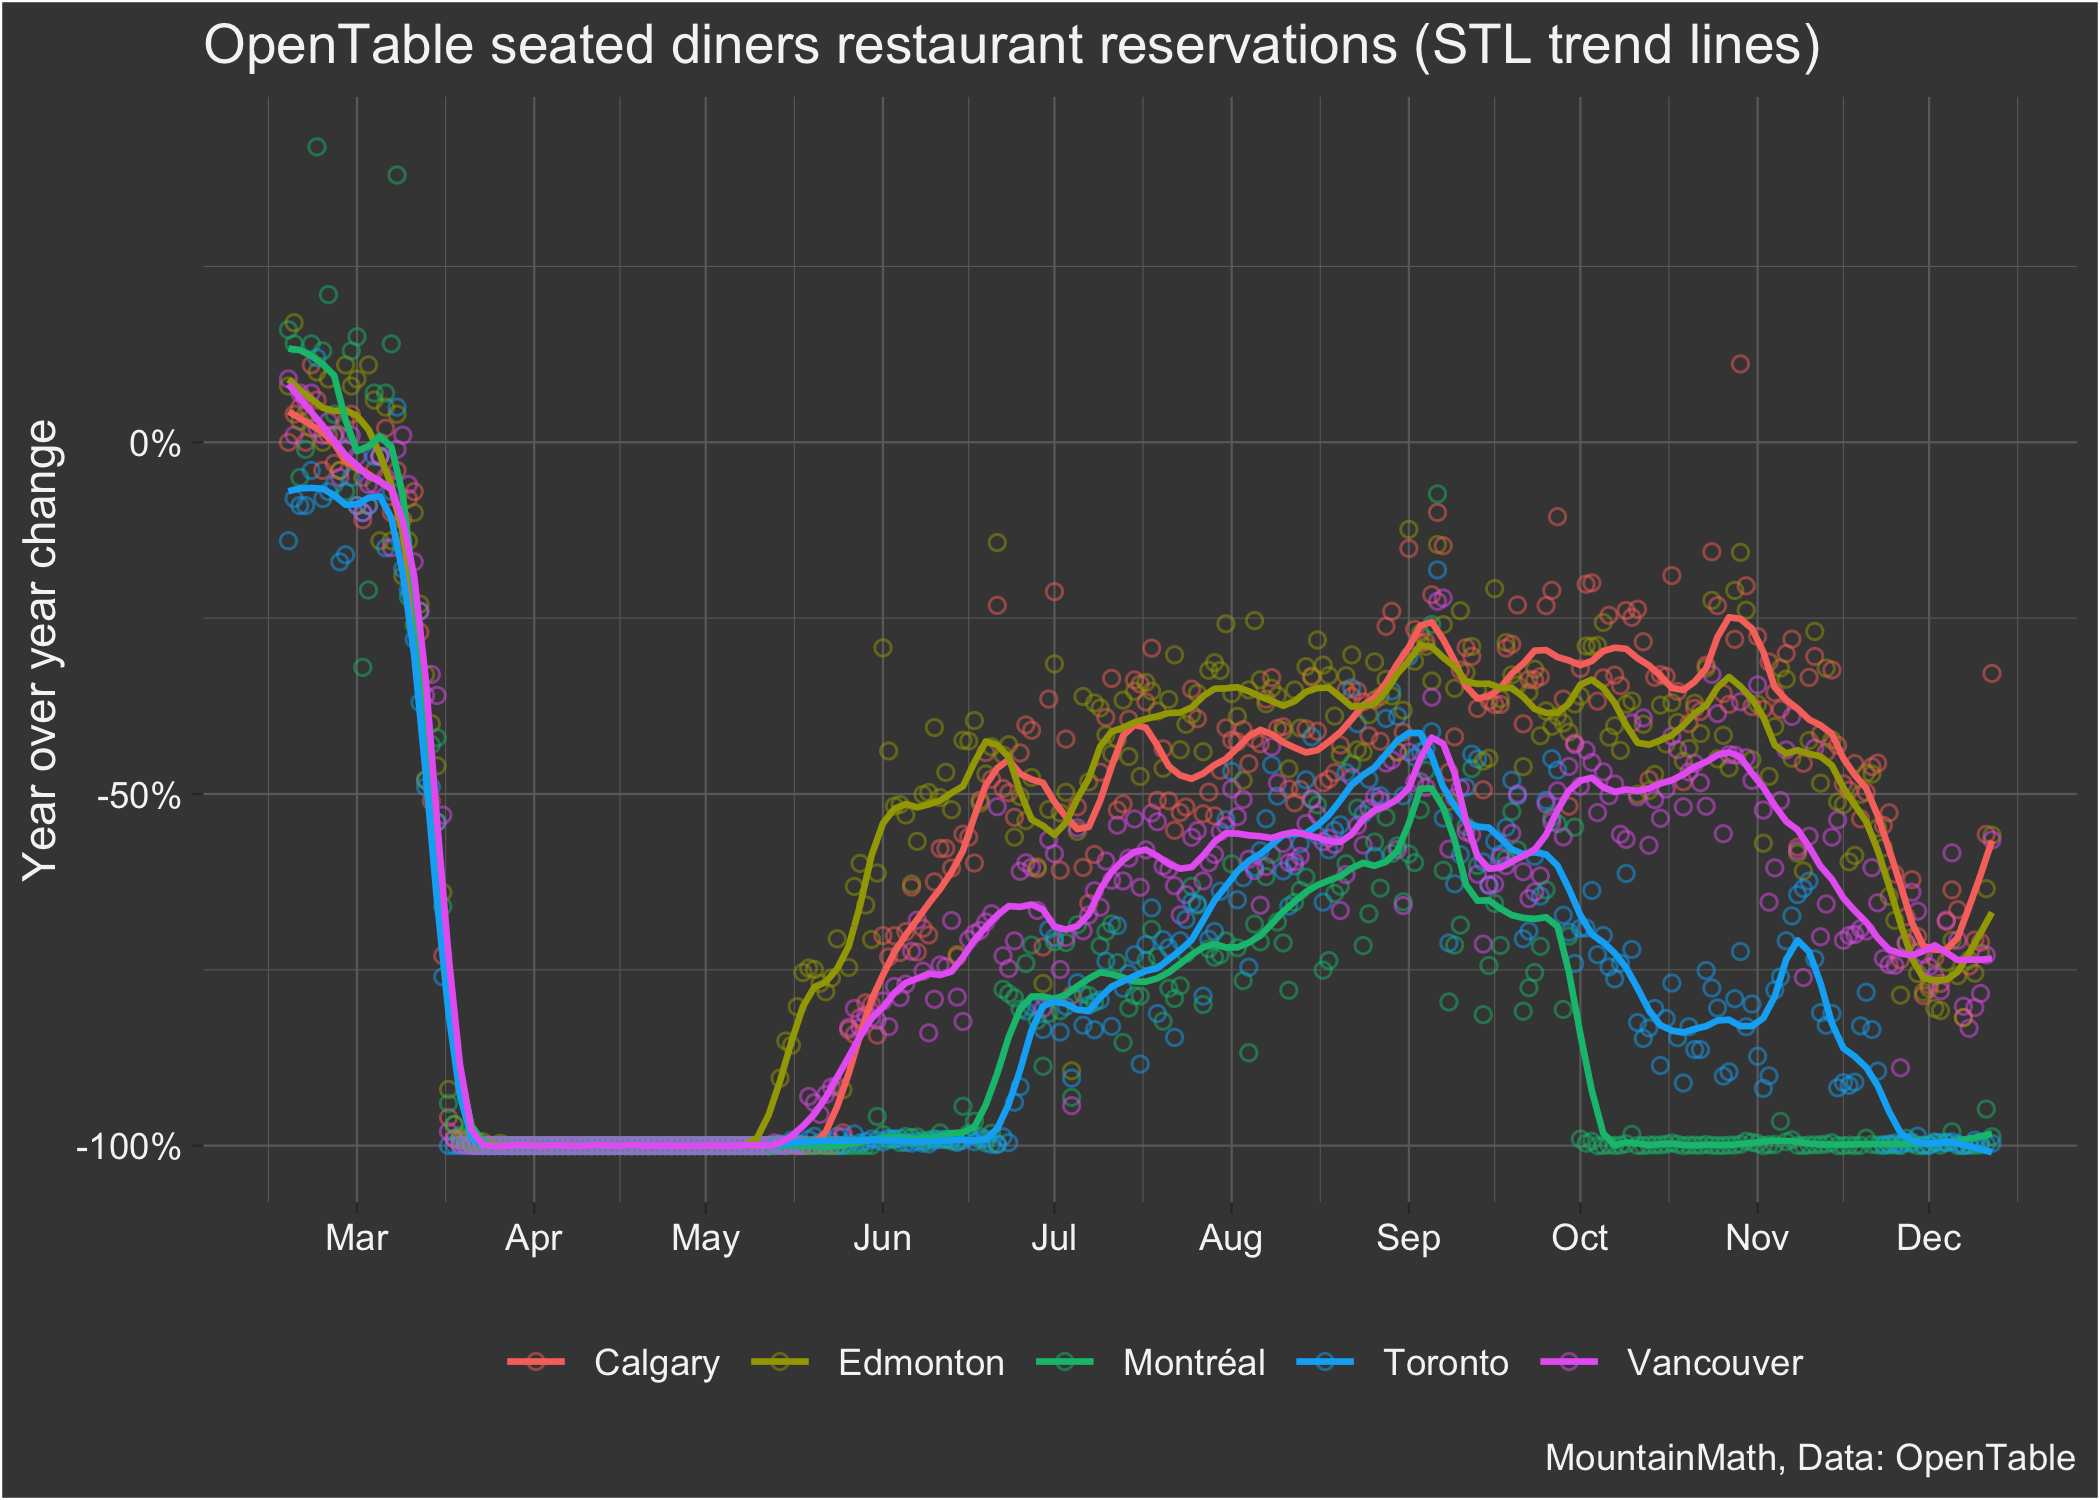
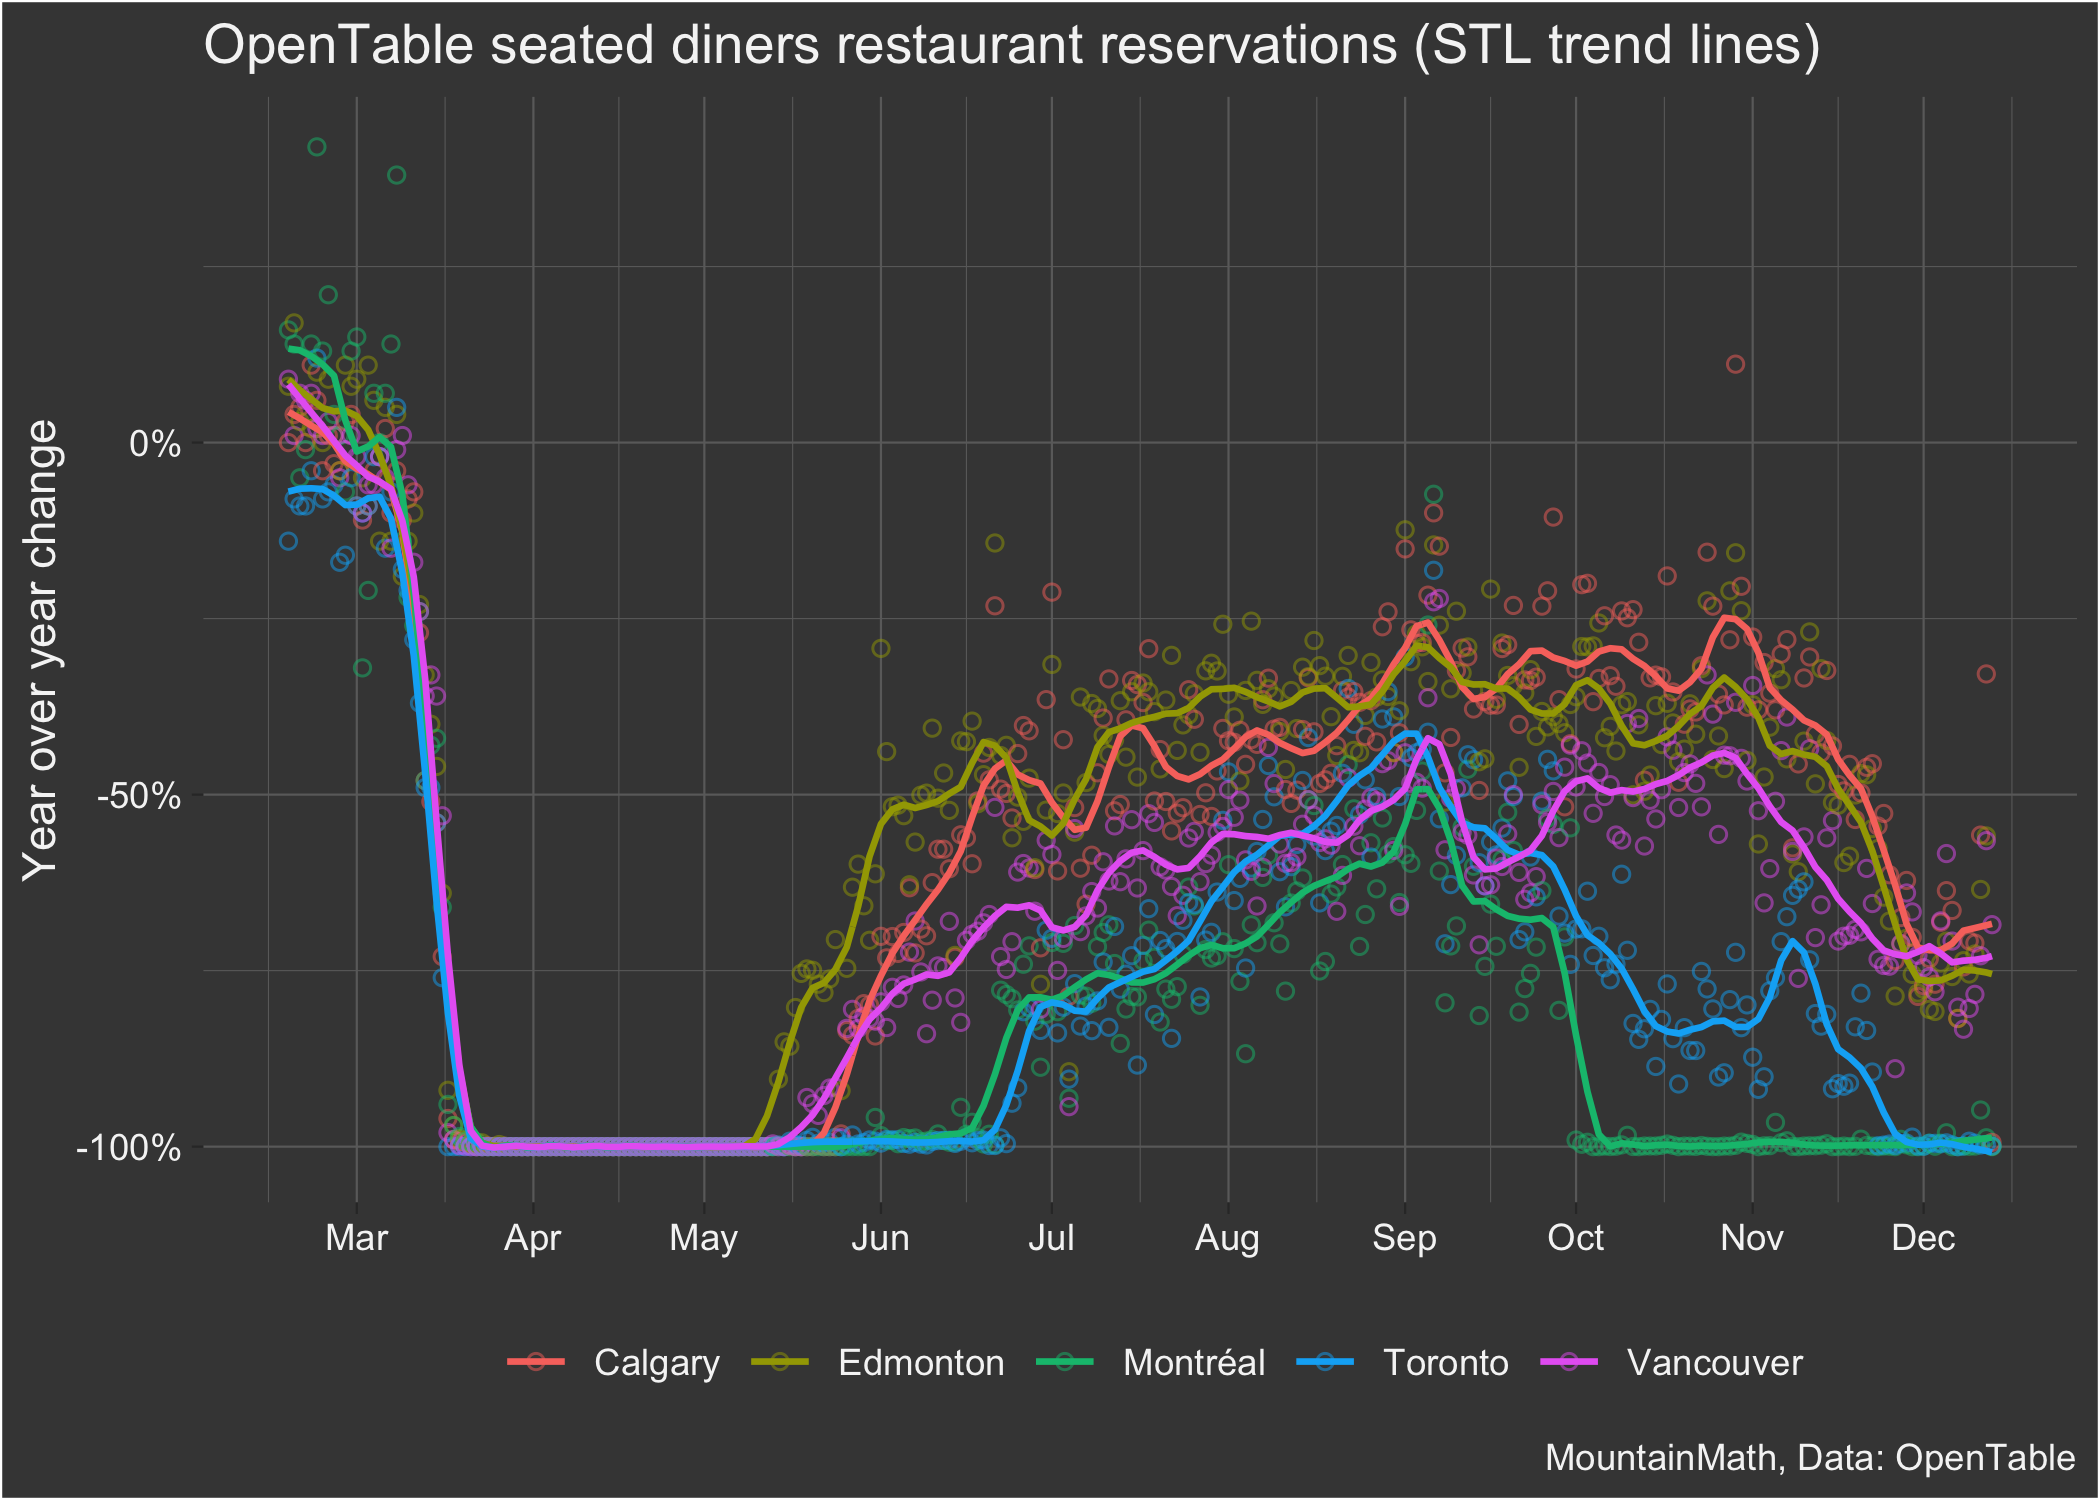
add second open table image to git to allow refresh.

diff --git a/open_table.md b/open_table.md
@@ -1,10 +1,19 @@
 Open Table
 ================
 Jens von Bergmann
-Last updated at 13 December, 2020 - 23:40
+Last updated at 14 December, 2020 - 08:19
 
-This graph shows Open Table year over year change in reservations for
-seated diners from the [Open Table State of the industry
-report](https://www.opentable.com/state-of-industry).
+These graphs show Open Table year over year change in reservations for
+seated diners and share of restaurants that accept reservations from the
+[Open Table State of the industry
+report](https://www.opentable.com/state-of-industry). The code for this
+notebook is [available for anyone to adapt and use for their own
+purposes](https://github.com/mountainMath/BCCovidSnippets/blob/main/open_table.Rmd).
+
+## Seated diners from online, phone, and walk-in reservations
 
 <img src="open_table_files/figure-gfm/open-table-canada-cities-1.png" width="1050" />
+
+## Restaurants open for reservations
+
+<img src="open_table_files/figure-gfm/open-table-canada-cities-2-1.png" width="1050" />
